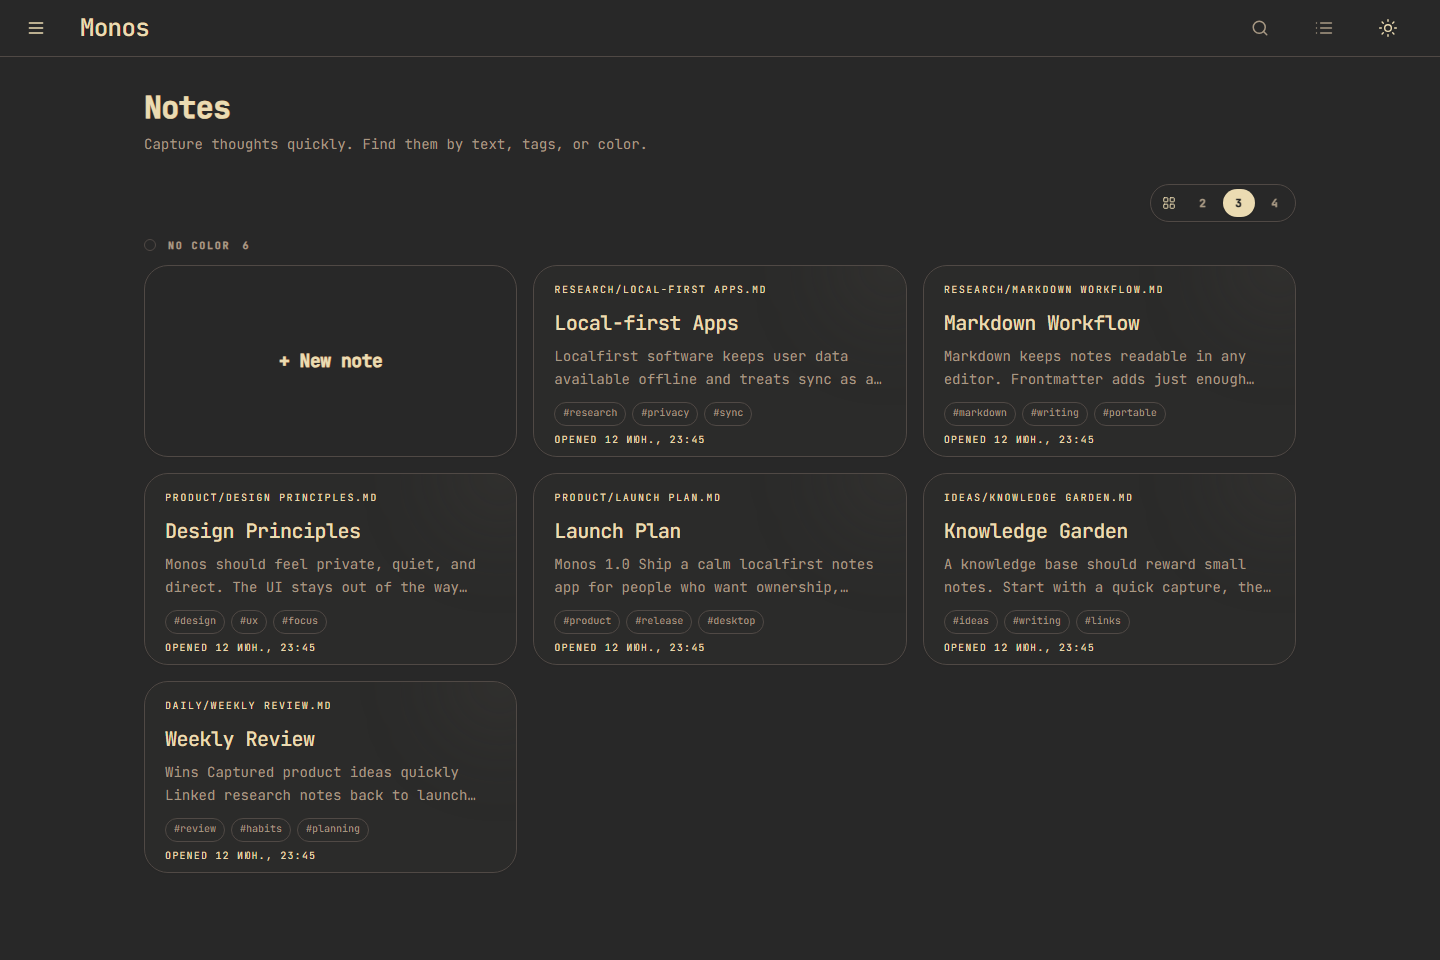
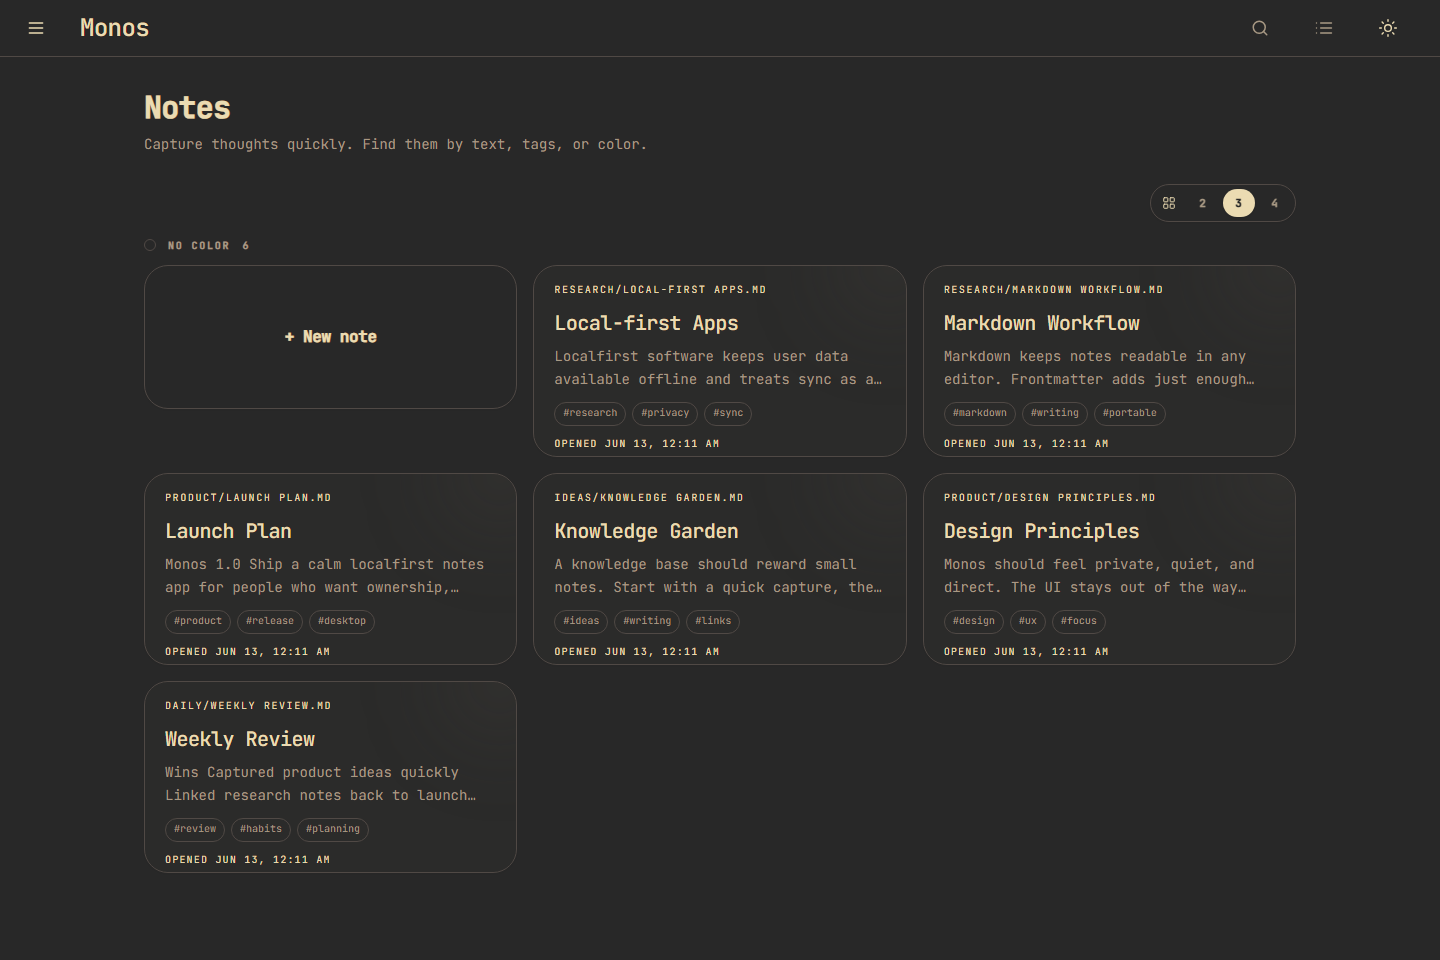
fix: polish public screenshots and note cards
Tighten board card footers, localize opened dates, add real interface screenshots, and clarify the landing page architecture.

diff --git a/site/index.html b/site/index.html
@@ -43,7 +43,7 @@
       }
 
       .page {
-        width: min(1120px, calc(100% - 32px));
+        width: min(1180px, calc(100% - 32px));
         margin: 0 auto;
       }
 
@@ -57,20 +57,12 @@
       .brand {
         display: flex;
         align-items: center;
-        gap: 12px;
         font-weight: 760;
         letter-spacing: -0.03em;
       }
 
-      .mark {
-        display: grid;
-        width: 36px;
-        height: 36px;
-        place-items: center;
-        border: 1px solid var(--line);
-        border-radius: 12px;
-        background: linear-gradient(145deg, #2f2b24, #1f1d1a);
-        color: var(--accent);
+      .brand-word {
+        font-size: 18px;
       }
 
       .nav-links {
@@ -81,12 +73,13 @@
       }
 
       .hero {
-        display: grid;
-        grid-template-columns: 1fr 0.82fr;
-        gap: 56px;
-        align-items: center;
-        min-height: 680px;
-        padding: 56px 0 80px;
+        padding: 56px 0 88px;
+        text-align: center;
+      }
+
+      .hero-copy {
+        max-width: 820px;
+        margin: 0 auto;
       }
 
       .eyebrow {
@@ -112,7 +105,7 @@
 
       .lead {
         max-width: 620px;
-        margin: 24px 0 0;
+        margin: 24px auto 0;
         color: var(--muted);
         font-size: clamp(18px, 2vw, 22px);
         line-height: 1.58;
@@ -121,6 +114,7 @@
       .actions {
         display: flex;
         flex-wrap: wrap;
+        justify-content: center;
         gap: 12px;
         margin-top: 34px;
       }
@@ -147,6 +141,8 @@
 
       .mock {
         position: relative;
+        margin: 52px auto 0;
+        max-width: 1024px;
         border: 1px solid var(--line);
         border-radius: 30px;
         background: linear-gradient(180deg, #2a2926, #1e1e1c);
@@ -255,7 +251,7 @@
 
       .screenshots {
         display: grid;
-        grid-template-columns: 1.2fr 0.8fr;
+        grid-template-columns: repeat(2, minmax(0, 1fr));
         gap: 18px;
         align-items: start;
       }
@@ -266,6 +262,10 @@
         border-radius: 26px;
         background: var(--bg-soft);
         box-shadow: var(--shadow);
+      }
+
+      .shot.wide {
+        grid-column: 1 / -1;
       }
 
       .shot.mobile {
@@ -306,6 +306,55 @@
         gap: 12px;
       }
 
+      .architecture-map {
+        display: grid;
+        grid-template-columns: 0.85fr 1fr 1fr;
+        gap: 14px;
+        margin-bottom: 22px;
+        align-items: stretch;
+      }
+
+      .system-card {
+        min-height: 150px;
+        padding: 22px;
+        border: 1px solid var(--line);
+        border-radius: 24px;
+        background: rgba(255, 255, 255, 0.035);
+      }
+
+      .system-card strong {
+        display: block;
+        margin-bottom: 10px;
+      }
+
+      .system-card p,
+      .system-card li {
+        color: var(--muted);
+        line-height: 1.55;
+      }
+
+      .system-card ul {
+        margin: 0;
+        padding-left: 1.1rem;
+      }
+
+      .trust-strip {
+        display: grid;
+        grid-template-columns: repeat(3, 1fr);
+        gap: 12px;
+        margin: 18px 0 34px;
+      }
+
+      .trust-item {
+        border: 1px solid rgba(142, 192, 124, 0.24);
+        border-radius: 18px;
+        padding: 14px;
+        color: var(--accent-2);
+        background: rgba(142, 192, 124, 0.07);
+        font-size: 13px;
+        line-height: 1.45;
+      }
+
       .step {
         padding: 20px;
         border: 1px solid var(--line);
@@ -330,7 +379,9 @@
         .mock-body,
         .features,
         .screenshots,
-        .architecture {
+        .architecture,
+        .architecture-map,
+        .trust-strip {
           grid-template-columns: 1fr;
         }
 
@@ -354,8 +405,7 @@
     <div class="page">
       <nav class="nav" aria-label="Primary">
         <a class="brand" href="#">
-          <span class="mark">M</span>
-          <span>Monos</span>
+          <span class="brand-word">Monos</span>
         </a>
         <div class="nav-links">
           <a href="#features">Features</a>
@@ -367,7 +417,7 @@
 
       <main>
         <section class="hero">
-          <div>
+          <div class="hero-copy">
             <div class="eyebrow">Local-first notes for focused thinking</div>
             <h1>Your knowledge base, on your machine.</h1>
             <p class="lead">
@@ -431,10 +481,28 @@
             the website.
           </p>
           <div class="screenshots">
+            <figure class="shot wide">
+              <img src="media/monos-dashboard.png" alt="Monos dashboard with a mock product knowledge base" loading="lazy" />
+              <figcaption class="shot-caption">
+                Board view keeps recent notes visible as compact cards, including tags, content snippets, and the last opened time.
+              </figcaption>
+            </figure>
             <figure class="shot">
               <img src="media/monos-editor.png" alt="Monos editor with a mock launch plan note" loading="lazy" />
               <figcaption class="shot-caption">
                 Rich editor, note tree, wiki link text, and Markdown content in the desktop layout.
+              </figcaption>
+            </figure>
+            <figure class="shot">
+              <img src="media/monos-search.png" alt="Monos search results over a mock knowledge base" loading="lazy" />
+              <figcaption class="shot-caption">
+                Header search works across titles, tags, and note bodies while keeping the board as the main surface.
+              </figcaption>
+            </figure>
+            <figure class="shot">
+              <img src="media/monos-settings.png" alt="Monos settings screen for theme and typography" loading="lazy" />
+              <figcaption class="shot-caption">
+                Settings expose the practical controls: theme, typography, editor mode, locale, and Git sync.
               </figcaption>
             </figure>
             <figure class="shot mobile">
@@ -449,8 +517,32 @@
         <section class="section" id="architecture">
           <h2>Simple architecture, clear ownership.</h2>
           <p class="section-intro">
-            Electron hosts a local Express API and a Svelte frontend. Markdown files remain the source of truth.
+            Electron hosts a local Express API and a Svelte frontend. Markdown files remain the source of truth, while
+            SQLite stays a rebuildable index.
           </p>
+          <div class="architecture-map" aria-label="Monos technical architecture">
+            <div class="system-card">
+              <strong>Electron Shell</strong>
+              <p>Creates the desktop window, resolves the OS user data directory, and starts the local backend.</p>
+            </div>
+            <div class="system-card">
+              <strong>Local Express API</strong>
+              <p>Runs on localhost only and validates filesystem paths before reading or writing notes.</p>
+            </div>
+            <div class="system-card">
+              <strong>User Data</strong>
+              <ul>
+                <li>Markdown notes in `notes/`</li>
+                <li>SQLite cache in `.data/`</li>
+                <li>Optional Git remote for sync</li>
+              </ul>
+            </div>
+          </div>
+          <div class="trust-strip">
+            <div class="trust-item">No cloud account is required by default.</div>
+            <div class="trust-item">Personal notes are runtime data, not repository content.</div>
+            <div class="trust-item">The database can be rebuilt from Markdown files.</div>
+          </div>
           <div class="architecture">
             <div class="step">
               <span>01</span>

diff --git a/webui/frontend/src/components/NoteCard.svelte b/webui/frontend/src/components/NoteCard.svelte
@@ -1,7 +1,7 @@
 <script>
   import { createEventDispatcher } from 'svelte';
   import { highlightExcerpt, searchSnippet } from '../lib/search.js';
-  import { localizedText } from '../lib/strings.js';
+  import { locale, localizedText } from '../lib/strings.js';
 
   export let note;
   export let query = '';
@@ -27,10 +27,10 @@
     return /^last opened:/i.test(text) ? '' : text;
   }
 
-  function formatOpenedDate(value) {
+  function formatOpenedDate(value, currentLocale = 'en') {
     const date = value ? new Date(value) : null;
     if (!date || Number.isNaN(date.getTime())) return '';
-    return new Intl.DateTimeFormat(undefined, {
+    return new Intl.DateTimeFormat(currentLocale || 'en', {
       month: 'short',
       day: 'numeric',
       hour: '2-digit',
@@ -50,10 +50,10 @@
   $: hiddenTagCount = Math.max(0, tags.length - visibleTags.length);
   $: excerpt = excerptText(note?.excerpt);
   $: visibleExcerpt = highlight && query ? searchSnippet(excerpt, query, compact ? 56 : 180) : excerpt;
-  $: openedDate = formatOpenedDate(note?.lastOpened);
+  $: openedDate = formatOpenedDate(note?.lastOpened, $locale);
   $: cardStyle = `--note-accent: ${accent}; --note-tint: color-mix(in srgb, ${accent} 13%, transparent); --note-glow: color-mix(in srgb, ${accent} 18%, transparent);`;
   $: cardClass = compact
-    ? 'note-card group relative flex h-36 w-full flex-col overflow-hidden rounded-2xl border border-[var(--border-subtle)] bg-[var(--bg-primary)] px-3 py-3 text-left shadow-sm shadow-black/[0.03] transition hover:border-[var(--text-secondary)]/40'
+    ? 'note-card group relative flex h-36 w-full flex-col overflow-hidden rounded-2xl border border-[var(--border-subtle)] bg-[var(--bg-primary)] px-3 pb-3.5 pt-3 text-left shadow-sm shadow-black/[0.03] transition hover:border-[var(--text-secondary)]/40'
     : 'note-card group relative flex h-48 w-full flex-col overflow-hidden rounded-3xl border border-[var(--border-subtle)] bg-[var(--bg-primary)] px-4 py-4 text-left shadow-sm shadow-black/[0.03] transition hover:border-[var(--text-secondary)]/40 sm:px-5 sm:hover:-translate-y-0.5 sm:hover:shadow-xl sm:hover:shadow-black/10';
 </script>
 
@@ -91,7 +91,7 @@
   </span>
 
   {#if compact && visibleTags.length > 0}
-    <span class="relative mt-auto flex min-w-0 shrink-0 gap-1.5 pt-2">
+    <span class="relative mt-auto flex min-w-0 shrink-0 gap-1.5 pt-1.5">
       {#each visibleTags as tag}
         <span class="min-w-0 truncate rounded-full border border-[var(--border-subtle)] bg-[var(--bg-primary)]/45 px-2 py-0.5 text-[10px] leading-tight text-[var(--text-secondary)]">
           #{tag}
@@ -99,7 +99,7 @@
       {/each}
     </span>
   {:else if !compact}
-    <span class="relative mt-auto flex min-w-0 shrink-0 flex-col gap-1.5 pt-3">
+    <span class="relative mt-auto flex min-w-0 shrink-0 flex-col gap-2.5 pt-3">
       <span class="flex h-6 min-w-0 flex-wrap gap-1.5 overflow-hidden">
       {#if visibleTags.length > 0}
         {#each visibleTags as tag}
@@ -114,7 +114,7 @@
         {/if}
       {/if}
       </span>
-      <span class="h-4 truncate text-[10px] uppercase tracking-[0.12em] text-[var(--text-secondary)]/60">
+      <span class="min-h-4 truncate text-[10px] uppercase tracking-[0.12em] text-[var(--text-secondary)]/60">
       {#if openedDate || note?.category}
         {#if openedDate}
           {$localizedText.app.board.opened} {openedDate}
@@ -136,8 +136,8 @@
   .compact-excerpt {
     display: -webkit-box;
     -webkit-box-orient: vertical;
-    -webkit-line-clamp: 2;
-    line-clamp: 2;
+    -webkit-line-clamp: 1;
+    line-clamp: 1;
     overflow: hidden;
   }
 

diff --git a/webui/frontend/src/components/NoteBoard.svelte b/webui/frontend/src/components/NoteBoard.svelte
@@ -295,10 +295,10 @@
         {#if showCreateCard && groupIndex === 0 && !query.trim()}
           <button
             type="button"
-            class="{mobile ? 'h-36 rounded-2xl px-3 py-3' : 'h-48 rounded-3xl px-4 py-4 sm:px-5'} group flex w-full flex-col items-center justify-center overflow-hidden border border-[var(--border-subtle)] bg-[var(--bg-primary)] text-center shadow-sm shadow-black/[0.03] transition hover:border-[var(--text-secondary)]/45 hover:bg-[var(--bg-secondary)]/45"
+            class="{mobile ? 'h-24 rounded-2xl px-3 py-3' : 'h-36 rounded-3xl px-4 py-4 sm:px-5'} group flex w-full flex-col items-center justify-center overflow-hidden border border-[var(--border-subtle)] bg-[var(--bg-primary)] text-center shadow-sm shadow-black/[0.03] transition hover:border-[var(--text-secondary)]/45 hover:bg-[var(--bg-secondary)]/45"
             on:click={createNote}
           >
-            <span class="block font-serif text-lg font-semibold tracking-tight text-[var(--text-primary)] transition group-hover:text-[var(--text-primary)]">
+            <span class="block font-serif text-sm font-semibold tracking-tight text-[var(--text-primary)] transition group-hover:text-[var(--text-primary)] sm:text-base">
               {$localizedText.app.homeActions.newNote}
             </span>
           </button>
